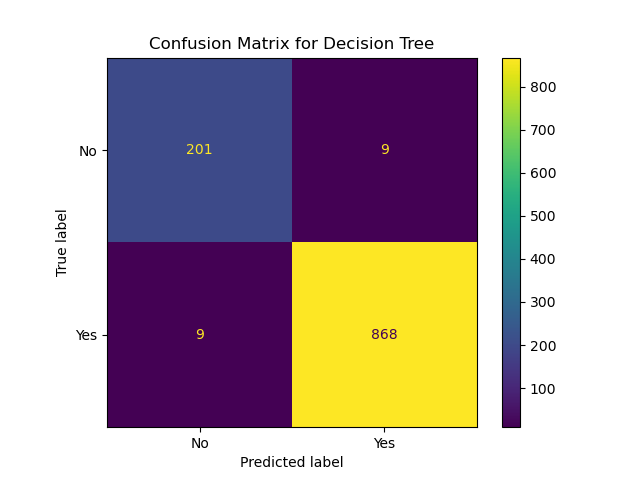
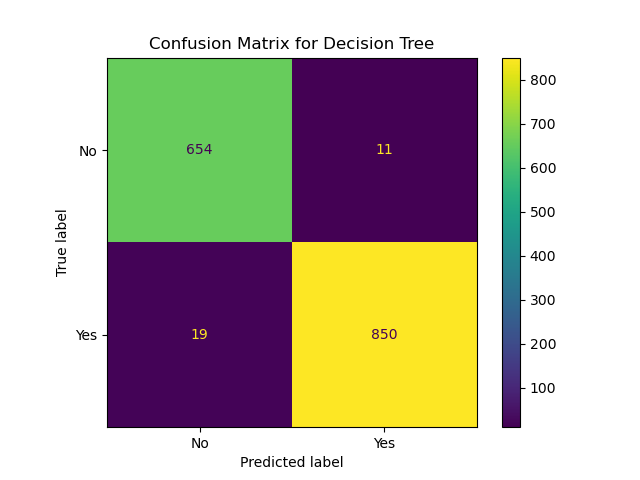
add analysis for decision tree

diff --git a/models/decision_tree.py b/models/decision_tree.py
@@ -7,14 +7,14 @@ from sklearn.metrics import classification_report
 from sklearn.metrics import plot_confusion_matrix
 from sklearn.model_selection import PredefinedSplit
 
-def decision_tree(sampling = False, isNotebook = False):
+def decision_tree(sampling = False, isNotebook = False, sampling_rate = 0.5):
     print("="*60)
     print("\nRunning Decision Tree...")
     DATA_FILE = utils.get_data_directory()
 
     # The argument of the function will determine weather we use oversampling or not
     if(sampling):
-        process_method = preprocess.oversample(DATA_FILE)
+        process_method = preprocess.oversample(DATA_FILE, sampling_rate)
     else:
         process_method = preprocess.preprocess_data(DATA_FILE)
 

diff --git a/models/preprocess.py b/models/preprocess.py
@@ -4,12 +4,12 @@ import os
 import imblearn
 from collections import Counter
 
-def oversample(filename):
+def oversample(filename, sampling = 0.5):
     '''
     The following function will oversample the data (duplicate the minority) to tackle our imbalance problem.
     '''
     X, y = preprocess_data(filename)
-    oversample = imblearn.over_sampling.RandomOverSampler(sampling_strategy=0.5)
+    oversample = imblearn.over_sampling.RandomOverSampler(sampling_strategy = sampling)
     X_over, y_over = oversample.fit_resample(X, y)
     print(f'Oversampled dataset shape {Counter(y_over)}')
     return X_over, y_over

diff --git a/run.py b/run.py
@@ -14,7 +14,7 @@ if __name__ == "__main__":
 
     # Change argument to True to use oversampling
     gnb.naive_bayes()
-    dt.decision_tree()
+    dt.decision_tree(True)
     rf.random_forest()
     svm.support_vector_machine()
     nn.neural_network()
